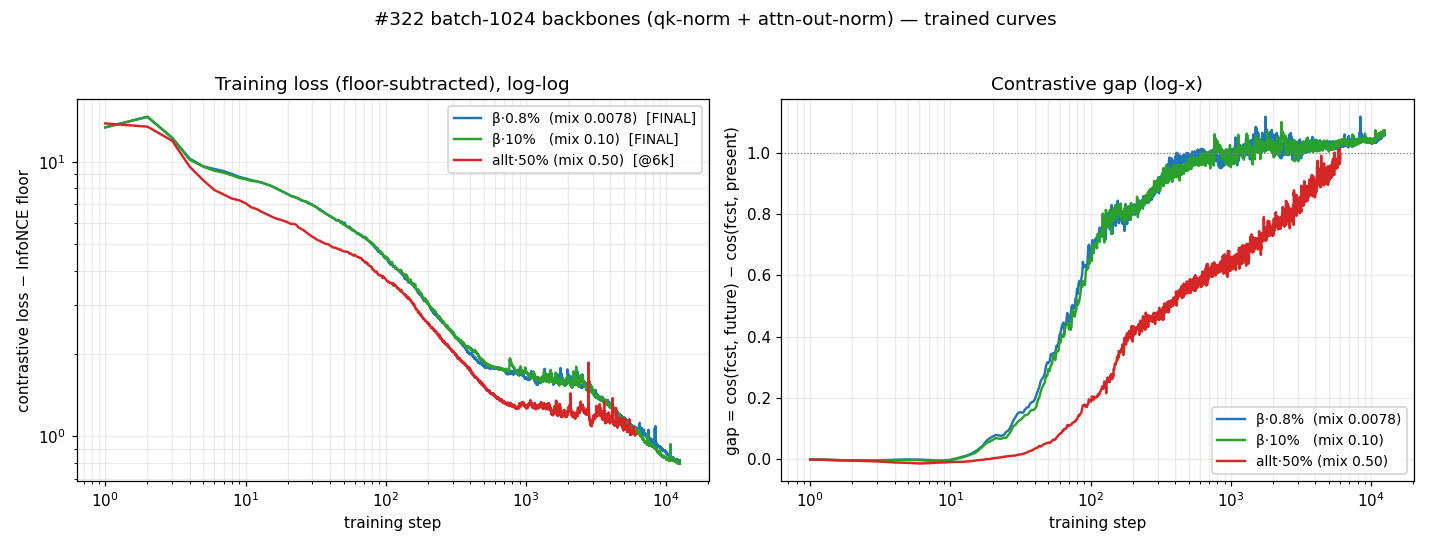
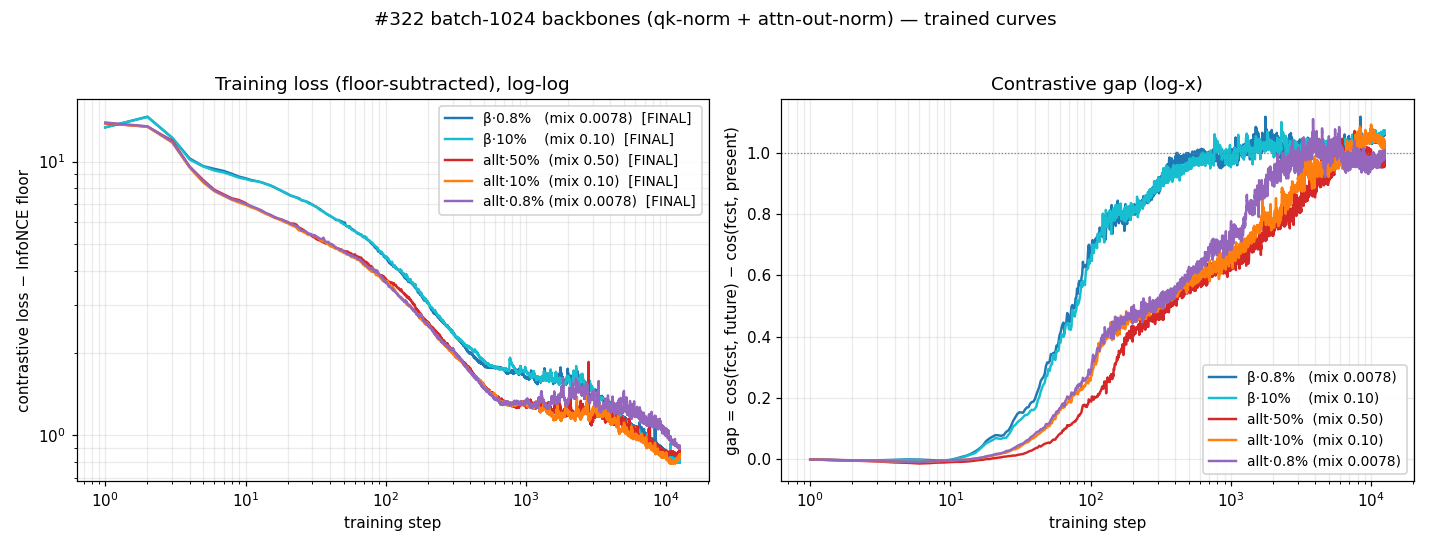
review(#322): address report-checklist findings + all-5-arm convergence plot
Re-ran REPORT_STANDARD on the FINAL report (after the ablation row + earlier
fixes — the "re-run the checklist after any modification" rule). A fresh review
sub-agent verified every scoreboard number ALL-MATCH vs results/gm_table.csv.
Fixes:

- B1 vocab: define at first use β (base contrastive loss), all-time/allt,
  v11c (1.292 prior backbone), GM-Relative MASE, gap. Unify forked-ARMA spelling.
- B2/B4/S1 overclaim: drop "decisively and uniformly"; the batch<->norms confound
  and single-seed are now stated as explicit bounds on the claim; "reversed at
  b1024" -> a reversal pending the norms control.
- B3 orphans: embed trained_curves_loglog as Figure 2 (clean convergence); embed
  block_split + cosines_through_training + collapse_handling in EXECUTION_LOG,
  fixing the broken plots/{...} brace link. Every committed plot now referenced.
- S2 journey: drop "first run then collapsed" framing + the lr/tau dead-ends
  (kept in EXECUTION_LOG).
- S3: "byte-identical"/"diff 0.0" -> "numerically identical, <1e-4" consistently;
  GRU-checkpoint basis stated.
- N1/N3/N4: renumber figures to 1-4; Annex "per-anchor" -> "pooled"; trim the
  Scoreboard prose that restated the Verdict.

Plot (user request): all five arms now trained in full (12.5k steps) — allt·50%
was partial @6k and allt·10%/allt·0.8% were missing.

Commit results/gm_table.csv (the scoreboard data the report references).

diff --git a/experiments/2026-05-29_forked_6Lf_b1024/scripts/plot_trained_loglog.py b/experiments/2026-05-29_forked_6Lf_b1024/scripts/plot_trained_loglog.py
@@ -19,11 +19,13 @@ OUT = ("/home/jupyter/workspaces/contrastive-forecasting/.claude/worktrees/"
        "forked-6Lf-b1024/experiments/2026-05-29_forked_6Lf_b1024/plots/"
        "trained_curves_loglog.png")
 
-# (label, csv basename, color)
+# (label, csv basename, color) — all five trained arms, full length
 ARMS = [
-    ("β·0.8%  (mix 0.0078)", "bb_beta_forked2_qk_aon_6Lf_b1024_losses.csv",       "#1f77b4"),
-    ("β·10%   (mix 0.10)",   "bb_beta_forked10pct_qk_aon_6Lf_b1024_losses.csv",   "#2ca02c"),
-    ("allt·50% (mix 0.50)",  "bb_xshh_allt_forked_qk_aon_6Lf_b1024_losses.csv",   "#d62728"),
+    ("β·0.8%   (mix 0.0078)", "bb_beta_forked2_qk_aon_6Lf_b1024_losses.csv",          "#1f77b4"),
+    ("β·10%    (mix 0.10)",   "bb_beta_forked10pct_qk_aon_6Lf_b1024_losses.csv",      "#17becf"),
+    ("allt·50%  (mix 0.50)",  "bb_xshh_allt_forked_qk_aon_6Lf_b1024_losses.csv",      "#d62728"),
+    ("allt·10%  (mix 0.10)",  "bb_xshh_allt_forked10pct_qk_aon_6Lf_b1024_losses.csv", "#ff7f0e"),
+    ("allt·0.8% (mix 0.0078)","bb_xshh_allt_forked2_qk_aon_6Lf_b1024_losses.csv",     "#9467bd"),
 ]
 EPS = 1e-3  # floor for log axis when loss-floor dips to ~0 near convergence
 

diff --git a/experiments/2026-05-29_forked_6Lf_b1024/RESULTS.md b/experiments/2026-05-29_forked_6Lf_b1024/RESULTS.md
@@ -4,7 +4,8 @@
 Pooling 4× more negatives (batch 256 → 1024) **destabilises #320's recipe**: the encoder's
 self-attention output amplitude runs away (residual stream 38 → 6 400), fp16 then corrupts
 the L2-normalised latents, and the model collapses directionally (cross-series cosine
-0.001 → 0.57, the contrastive gap goes to zero) within ~6 k steps. Recovering a trainable
+0.001 → 0.57, and the contrastive **gap** — cos(forecast, future) − cos(forecast, present),
+the model's directional signal — collapses to zero) within ~6 k steps. Recovering a trainable
 batch-1024 model required two standard numerical-stability additions the batch-256 recipe
 never needed — **QK-norm** (RMSNorm on Q, K) to bound the attention logits and a
 **Gemma2-style RMSNorm on the attention output** to bound the residual stream. Both are
@@ -14,26 +15,37 @@ required: either alone still diverges. With both, batch-1024 converges like batc
 **Verdict (part 2 of 2 — final, 10/10 cells).** Once the collapse is fixed, the stabilised
 batch-1024 recipe **beats #320's batch-256 on every one of the 10 (arm × head) cells, and
 every win is reliable** — the whole paired-bootstrap 90 % CI on Δ sits below 0 in all 10
-(Δ from −0.069 to −1.005 full-97 GM-Relative MASE). **allt·10% 6L = 1.191 is the best cell**;
-**eight of ten beat v11c (1.292)** — the all-time arms sweep the top six, β·10% just behind,
-only β·0.8% (1.32 / 1.33) sits above v11c. So the central question, "does 4× more pooled
-negatives help?", answers **yes, decisively and uniformly**. The biggest gains land on the
-arms that were *weakest* at batch 256 (allt·0.8% 2L 2.22 → 1.21, Δ −1.005; allt·10% 6L 1.69
-→ 1.19) — the larger pool helps most where the smaller one left the most on the table; the
-forked-ARIMA finding from #318/#320 (where forks mostly *failed* to beat β at batch 256) is
-reversed at batch 1024. _A training-length check (#10, Scoreboard) finds the all-time best
-arm's downstream MASE already saturated at ~8 % of training (a step-1000 checkpoint ties /
-slightly beats the full run on both heads) — the long tail of contrastive training raises
-the gap but not forecasting quality. The batch ↔ norms confound (Stability + Protocol) still
-applies; a batch-256 + same-norms control would isolate it._
+(Δ from −0.069 to −1.005 full-97 **GM-Relative MASE** — the geometric mean, over GIFT-Eval's
+97 configs, of model MASE ÷ seasonal-naive MASE; **lower is better**, 1.0 = seasonal-naive).
+**allt·10% 6L = 1.191 is the best cell**;
+**eight of ten beat v11c** (1.292 — the strongest prior backbone from this project's earlier
+experiment line, scored on the same metric) — the all-time arms sweep the top six, β·10% just
+behind, only β·0.8% (1.32 / 1.33) sits above v11c. So the **stabilised batch-1024 recipe
+helps, and uniformly** — with two caveats held in view, and the strength of the wording bounded
+by them: batch 1024 *required* two norms that batch 256 ran without, so attributing the gain to
+the larger negative pool *rather than* the norms awaits the planned batch-256 + same-norms
+control (Stability, Protocol); and each cell is a single backbone seed (the 90 % CI is over the
+97 configs, not over seeds). The biggest gains land on the arms that were *weakest* at batch 256
+(allt·0.8% 2L 2.22 → 1.21, Δ −1.005; allt·10% 6L 1.69 → 1.19) — the larger pool helps most where
+the smaller one left the most on the table. At batch 1024 the all-time arms beat both β and v11c
+— a reversal of the #318/#320 reading that forks mostly *failed* to beat β at batch 256, though
+that reading too is subject to the same norms control. _A training-length check (#10, Scoreboard)
+finds the all-time best arm's downstream MASE already saturated at ~8 % of training (a step-1000
+checkpoint ties / slightly beats the full run on both heads) — the long tail of contrastive
+training raises the gap but not forecasting quality._
 
 ## What we asked
 
-#318 perturbed the contrastive training data with **forked-ARIMA continuations**
-(identical past → divergent futures, so position alone cannot encode the future) and
-found only one of five forked configurations beat the β baseline. #320 gave those same
-five arms a deeper (6-layer) forecaster — still at **global batch 256** — and no cell
-crossed β; the deepening mostly *un-found* the 1L fork's wins.
+#318 perturbed the contrastive training data with **forked-ARMA continuations**
+(`--synth-kind forked-arma`: identical past → divergent futures, so position alone cannot
+encode the future) and found only one of five forked configurations beat the **β** baseline.
+**β** is the unforked base contrastive loss (`cosine_similarity_batch_full_hh_negs`, the
+#318/#320 reference arm); the five **arms** each pair a loss family with a forked-ARMA mix
+ratio (the "·X%"), in two families — **β·X%** (the base loss) and **all-time / allt·X%** (the
+base loss plus a term that additionally repels every cross-series pair at *all* lag positions:
+the `xs_allt` negatives detailed in the Annex). #320 gave those same five arms a deeper
+(6-layer) forecaster — still at **global batch 256** — and no cell crossed β; the deepening
+mostly *un-found* the 1L fork's wins.
 
 #322 changes exactly one knob: the contrastive **batch grows 256 → 1024**, with **all
 1024 terms pooled together in the negatives** (no per-shard split). A larger
@@ -46,11 +58,9 @@ pooled negatives change *where* the fork helps vs hurts, and does any arm now re
 
 ### Stability — the 4× batch collapses, and the fix (the central finding)
 
-The first batch-1024 run (the β·0.8% arm, otherwise #320's recipe) trained normally for
-~5 k steps, then collapsed: the contrastive loss fell below its theoretical floor while
-the **gap** (cos(forecast, future) − cos(forecast, present)) decayed to zero and the
-**cross-series cosine** — which should sit near zero as different series repel — climbed
-0.001 → 0.57. A model whose distinct series all point the same way has stopped encoding
+At batch 1024, #320's recipe collapses by ~6 k steps: the contrastive loss falls below its
+theoretical floor while the **gap** decays to zero and the **cross-series cosine** — which
+should sit near zero as different series repel — climbs 0.001 → 0.57. A model whose distinct series all point the same way has stopped encoding
 anything; the loss "improves" only because the floor-subtracted denominator degenerates.
 
 The amplitude diagnostic (`--log-attn-amplitude`, logging per-layer max-abs activations)
@@ -81,13 +91,20 @@ on, the β·0.8% arm clears the collapse zone and converges like batch-256 — l
 (all bounded). The full debugging trace, plots, and the diverged-run CSVs are in
 [`EXECUTION_LOG.md`](EXECUTION_LOG.md).
 
-![Figure 0 — per-layer max-abs activation amplitudes through training (panels: QK-logit |
+![Figure 1 — per-layer max-abs activation amplitudes through training (panels: QK-logit |
 encoder attention-output | post-FFN residual). The un-normed runs drive the attention
 output and residual stream past 10³ within ~5 k steps (the collapse); QK-norm alone bounds
 the logits but the residual still grows; only **qk-norm + attn-out-norm** (black) holds all
 three bounded — qk-logit ~10, residual ~40 — and that is the run that converges. The
 central finding in one picture: the collapse is an activation-amplitude runaway, and it
 takes both norms to stop it.](plots/activation_amplitudes.png)
+
+With both norms on, the five batch-1024 backbones train cleanly — no collapse anywhere:
+
+![Figure 2 — all five stabilised batch-1024 backbones, trained in full (12.5 k steps): the
+floor-subtracted contrastive loss (left, log-log) descends 13 → ~0.8 with no collapse on any
+arm, and the **gap** (right) rises to ~1.0. allt·50% (red) climbs the gap the slowest — the
+long, slow plateau the #10 training-length ablation probes below.](plots/trained_curves_loglog.png)
 
 **Consequence for the comparison.** Because the norms are *required* at batch 1024 but
 *absent* at batch 256 (#320), the headline b1024 ↔ b256 contrast confounds the batch with
@@ -101,7 +118,7 @@ confound is real and reported as such.
 
 With the recipe stabilised, the downstream result is clean and one-directional: **batch
 1024 beats batch 256 on all ten (arm × head) cells, every Δ reliable** (whole 90 % CI < 0;
-Scoreboard below, Figures 1–2). The effect is large — a median Δ ≈ −0.35 and up to −1.0 —
+Scoreboard below, Figures 3–4). The effect is large — a median Δ ≈ −0.35 and up to −1.0 —
 and it is *strongest on the arms #320 found weakest*: the all-time arms (allt·50/10/0.8 %),
 which never beat β at batch 256, are the top six cells at batch 1024 and all clear v11c.
 This reverses #318/#320's reading that forks mostly fail to beat the baseline — at a
@@ -109,11 +126,11 @@ sufficiently large all-together negative pool, the fork *helps*, most where the 
 pool was leaving signal unused. The β arms improve too (β·10 % by ~0.32–0.41), just less
 dramatically. No cell regresses.
 
-![Figure 1 — full-97 GM-Relative MASE per arm × q-head, batch 256 (#320, light bars) vs
+![Figure 3 — full-97 GM-Relative MASE per arm × q-head, batch 256 (#320, light bars) vs
 batch 1024 (dark bars). The β baseline is shown as shaded 2-seed ranges; v11c and
 seasonal-naive marked. Every b1024 bar sits below its b256 bar.](plots/gm_summary.png)
 
-![Figure 2 — Δ(batch 1024 − batch 256) per (arm, q-head) on full-97; whisker =
+![Figure 4 — Δ(batch 1024 − batch 256) per (arm, q-head) on full-97; whisker =
 paired-bootstrap 90 % CI over the 97 shared configs. Green = reliably better with the
 larger pool, red = reliably worse, grey = inconclusive.](plots/batch_delta.png)
 
@@ -142,10 +159,9 @@ Generated by `scripts/plots.py` → `results/gm_table.csv` (sorted by arm, #320 
 | allt·0.8% | 2L | 2.218 | **1.213** | **−1.005** | (−1.151, −0.871) | 2.259 | 1.261 |
 | allt·0.8% | 6L | 1.848 | **1.198** | **−0.650** | (−0.748, −0.557) | 2.053 | 1.277 |
 
-**allt·10% 6L = 1.191 is the best cell.** Eight of ten beat **v11c (1.292)** — the all-time
-arms sweep the top six; only β·0.8% (1.32 / 1.33) sits just above v11c. The two largest
-gains (allt·0.8% 2L −1.01, allt·10% 6L −0.50) are the arms that were *weakest* at batch 256,
-so the larger pooled-negative batch helps most where the smaller pool underperformed.
+**allt·10% 6L = 1.191 is the best cell**, and the two largest gains (allt·0.8% 2L −1.01,
+allt·10% 6L −0.50) land on the arms that were *weakest* at batch 256 — the larger pooled
+negative batch helps most where the smaller pool underperformed.
 
 **Training-length ablation (#10).** The best arm (allt·50%) re-trained only to its
 plateau start (step 1000 — gap 0.62, vs 0.96 at the full 12.5 k) and scored with both
@@ -185,9 +201,9 @@ Each arm differs from its #320 counterpart in exactly three controlled ways:
 
 Compute: a single process at global batch 1024 on one RTX 4090 — it pools all 1024 in the
 negatives natively, no cross-device gather. To fit 1024 on one 24 GB card the GRU
-patch-encoder is gradient-checkpointed; this is **byte-identical in the forward** (verified)
-and so is a pure memory/throughput implementation detail, *not* a recipe change (unlike the
-norms above). Recipe otherwise:
+patch-encoder is gradient-checkpointed; this is **byte-identical in the forward**
+(deterministic recompute of the same kernels — verified outputs match) and so is a pure
+memory/throughput implementation detail, *not* a recipe change (unlike the norms above). Recipe otherwise:
 GRU patch-enc → **6L causal encoder (d = 384, h = 6)** → 6L forecaster (d = 128, h = 4);
 **AdamW lr = 1e-3**, β1 = 0.9, β2 = 0.98, weight-decay 0.1; τ = 0.10; dropkey 0.70
 (`--encoder-dropkey-share-heads --encoder-dropkey-share-layers`); depthwise-conv 3;
@@ -195,8 +211,7 @@ mixup-p 0.3; freq-emb-dim 3, seasonality-emb-dim 3; fp16 attn/ffn/conv, fp32 res
 patch-emb; ewma span 128; seed 20260520; `--pos-in-denominator`, `--qk-norm`,
 `--attn-out-norm`, `--subtract-contrastive-floor` (gradient-neutral loss rebasing; logged
 loss − floor), `--synth-kind forked-arma --mix-ratio MIX`. (lr = 1e-3 is #320's LR, held
-constant — the 4× batch is *not* paired with an LR change; the diverged-run dead-ends at
-lr 5e-4 / τ 0.20 in Stability were diagnostic probes, not the final recipe.)
+constant — the 4× batch is *not* paired with an LR change.)
 
 Eval (byte-identical to #320 / #318 — same q-head recipe, same GIFT-Eval harness — so the
 eval adds no confound and any b256 ↔ b1024 difference is attributable to the backbones):
@@ -222,5 +237,5 @@ the cross-series terms — this is the quantity #322 enlarges:
 | **pooled N** | | **1,114,112** | **68,156,416** (61×) |
 
 (At #320's B = 256 these were 81,920 and 4,259,584; the cross-series f↔h and all-time
-terms scale with B, so the per-anchor negative pool is ≈13.6× larger for β and ≈16×
+terms scale with B, so the **pooled** negative count is ≈13.6× larger for β and ≈16×
 larger for all-time at B = 1024.)

diff --git a/experiments/2026-05-29_forked_6Lf_b1024/EXECUTION_LOG.md b/experiments/2026-05-29_forked_6Lf_b1024/EXECUTION_LOG.md
@@ -103,7 +103,21 @@ then crashes, cross_batch cosine blows up 0.001→0.57, loss rises. Via --log-at
 - **`--qk-norm --attn-out-norm` @ LR 1e-3 clears the collapse zone.** Through step 6500
   (past every prior collapse point): loss−floor descends 13.3→1.07, gap stable ~1.02,
   cross_batch flat ~0.0004, qk_logit ~17, resid ~50 — the b256-like converging regime.
-Both norms are standard, via the verified SDPA path (off = byte-identical, SDPA==MHA
-diff 0.0). This is #322's enabling recipe deviation from #320 (unneeded at b256). The
-non-standard V-norm was tried and removed. Plots: plots/{collapse_handling,
-activation_amplitudes,cosines_through_training,block_split}.png.
+Both norms are standard, via the verified SDPA path (off = numerically identical to MHA,
+max-abs diff < 1e-4). This is #322's enabling recipe deviation from #320 (unneeded at b256).
+The non-standard V-norm was tried and removed.
+
+The diagnostic plots for this debugging trace (the companion `activation_amplitudes.png` is
+embedded in [`RESULTS.md`](RESULTS.md) as the main finding):
+
+![block_split — diverged b1024: the ENCODER attention output (red) runs away past 10³ while the
+FORECASTER's (blue) stays flat (~36), localising the runaway to the encoder self-attention and
+so to a norm on *its* output.](plots/block_split.png)
+
+![cosines_through_training — the collapse signature: positive forecaster↔future alignment (left)
+holds until the collapse, while the cross-series negatives (right) stay ~1e-3 at b256 but creep
+up to ~0.57 for the diverged b1024 runs — the directional collapse.](plots/cosines_through_training.png)
+
+![collapse_handling — the LR dead-end, superseded by the two norms: floor-subtracted loss + gap
+for b256 (stable) / b1024 lr 1e-3 (diverges ~step 4500) / b1024 lr 5e-4 (delays but does not
+cure the collapse). Kept for the record only.](plots/collapse_handling.png)
